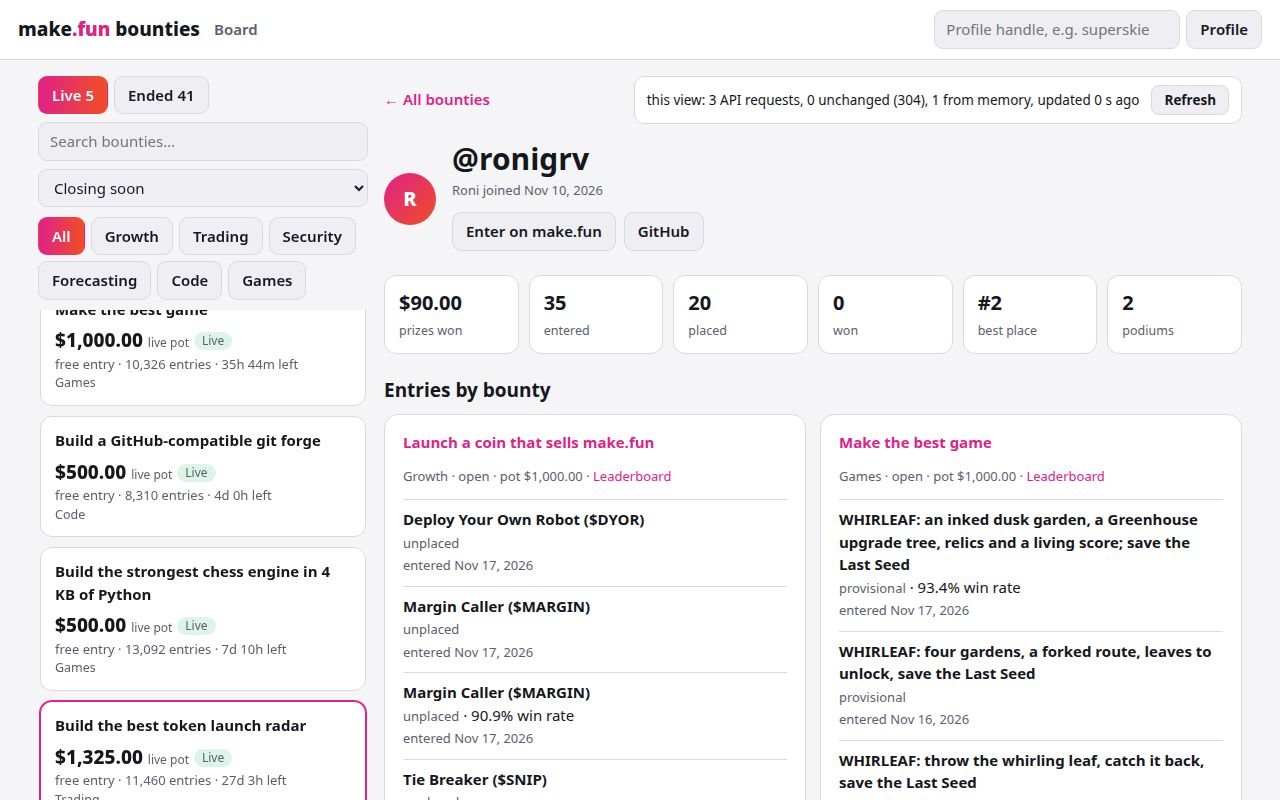
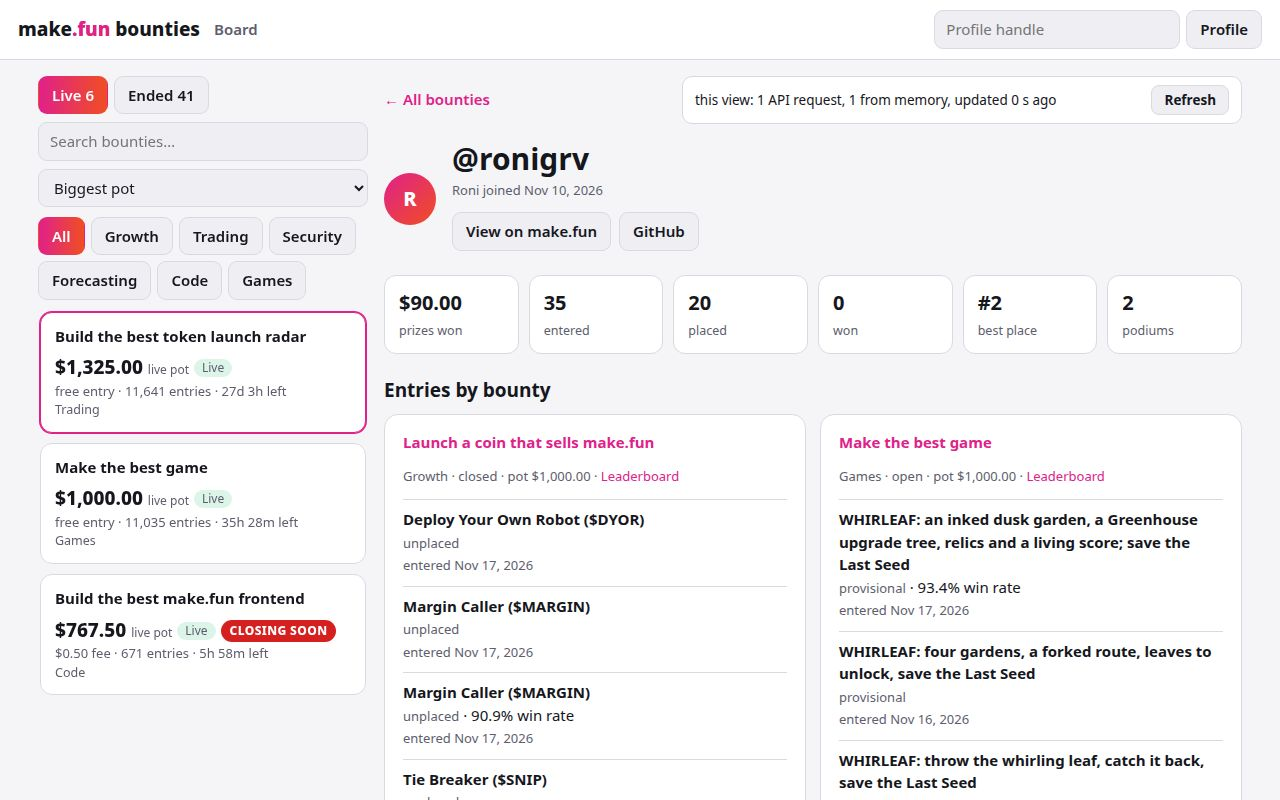
v3 freeze: rail order, panel format, status consistency

diff --git a/app/leaderboard.js b/app/leaderboard.js
@@ -2,8 +2,8 @@
 // the rows inside the scroll window are in the DOM. Win rate ± 90% interval.
 
 import {
-  apiLeaderboard, absolutize, escapeHtml, formatInterval, formatWinRate,
-  paintRequestsPanel, requestsPanelHtml,
+  apiCompetition, apiLeaderboard, absolutize, escapeHtml, formatInterval,
+  formatUsd, formatWinRate, paintRequestsPanel, requestsPanelHtml,
 } from './util.js';
 
 export function routeLeaderboard(root, slug) {
@@ -19,7 +19,7 @@ export function routeLeaderboard(root, slug) {
       <div class="lb-wrap">
         <div class="lb-scroll" id="lb-scroll">
           <table class="lb"><thead><tr>
-            <th>Rank</th><th>Entrant</th><th id="lb-rate-head">Win rate ± 90%</th>
+            <th>Rank</th><th>Entrant</th><th id="lb-rate-head">Win rate · 90% interval</th>
           </tr></thead><tbody id="lb-body"></tbody></table>
         </div>
         <aside class="entrant-card" id="entrant-card"><p class="sub">Loading entries…</p></aside>
@@ -32,6 +32,7 @@ export function routeLeaderboard(root, slug) {
     status: root.querySelector('#lb-status'),
     entries: [],
     selected: null,
+    rewards: [],
   };
   const card = root.querySelector('#entrant-card');
   let all = [];
@@ -57,7 +58,7 @@ export function routeLeaderboard(root, slug) {
     if (!tr) return;
     view.selected = tr.dataset.handle;
     renderVirtualList(view);
-    selectEntrant(card, view.entries.find((x) => x.handle === view.selected));
+    selectEntrant(card, view.entries.find((x) => x.handle === view.selected), view.rewards);
   });
   root.querySelector('#lb-filter').addEventListener('input', (e) => applyFilter(e.target.value));
   const onResize = () => renderVirtualList(view);
@@ -66,9 +67,13 @@ export function routeLeaderboard(root, slug) {
   const load = async (force) => {
     const data = await apiLeaderboard(slug, { force });
     all = data.entries || [];
+    try {
+      const detail = await apiCompetition(slug, { force });
+      view.rewards = detail.rewardsNow || [];
+    } catch { /* the board stands without prize amounts */ }
     const firstValues = all.length ? (all[0].values || {}) : {};
     root.querySelector('#lb-rate-head').textContent =
-      firstValues.judge !== undefined ? 'Win rate ± 90%' : 'Elo · W-D-L';
+      firstValues.judge !== undefined ? 'Win rate · 90% interval' : 'Elo · W-D-L';
     const comp = data.competition || {};
     root.querySelector('#lb-title').textContent = `${comp.title || slug} — leaderboard`;
     const phase = data.phase || {};
@@ -77,7 +82,7 @@ export function routeLeaderboard(root, slug) {
       : `<p class="provisional-note">Provisional standings — this board is not final; the final heat re-judges every entry afresh.</p>`;
     if (!view.selected && all.length) view.selected = all[0].handle;
     applyFilter(root.querySelector('#lb-filter').value || '');
-    selectEntrant(card, all.find((x) => x.handle === view.selected) || all[0]);
+    selectEntrant(card, all.find((x) => x.handle === view.selected) || all[0], view.rewards);
     paintRequestsPanel(panel);
     window.__shotReady = true;
   };
@@ -88,7 +93,7 @@ export function routeLeaderboard(root, slug) {
     view.body.innerHTML = /404/.test(err.message)
       ? `<tr><td colspan="3">No bounty named “${escapeHtml(slug)}” exists on make.fun.</td></tr>`
       : `<tr><td colspan="3">Could not load the leaderboard: ${escapeHtml(err.message)}</td></tr>`;
-    view.status.textContent = 'rows 0 to 0 of 0, 0 in the DOM';
+    view.status.textContent = 'rows 0 to 0 of 0 ranked, 0 in the DOM';
     window.__shotReady = true;
   });
   return () => window.removeEventListener('resize', onResize);
@@ -120,15 +125,16 @@ export function renderVirtualList(view) {
   body.innerHTML = html || '<tr><td colspan="3">No entries match.</td></tr>';
   const shown = Math.max(0, end - start);
   status.textContent = total
-    ? `rows ${start + 1} to ${end} of ${total}, ${shown} in the DOM`
-    : 'rows 0 to 0 of 0, 0 in the DOM';
+    ? `rows ${start + 1} to ${end} of ${total} ranked, ${shown} in the DOM`
+    : 'rows 0 to 0 of 0 ranked, 0 in the DOM';
 }
 
-export function selectEntrant(card, entry) {
+export function selectEntrant(card, entry, rewards) {
   if (!entry) {
     card.innerHTML = '<p class="sub">Select an entrant to see their card.</p>';
     return;
   }
+  const reward = (rewards || []).find((r) => Number(r.place) === Number(entry.rank));
   const v = entry.values || {};
   const avatar = entry.image ? absolutize(entry.image) : '';
   const scoreHtml = v.judge !== undefined
@@ -143,6 +149,7 @@ export function selectEntrant(card, entry) {
     <h3>@${escapeHtml(entry.handle)}</h3>
     ${scoreHtml}
     rank #${entry.rank}${entry.prize_eligible && entry.rank <= 20 ? ' · <span class="prize-badge">paid place</span>' : ''}</p>
+    ${reward ? `<p class="sub">prize at this rank: <b>${formatUsd(reward.amountUsd)}</b> from the live pot</p>` : ''}
     <p>${escapeHtml(entry.title || '')}</p>
     <a class="btn primary" href="#/profile/${encodeURIComponent(entry.handle)}">Open full profile</a>`;
 }

diff --git a/app/profile.js b/app/profile.js
@@ -20,13 +20,19 @@ export function routeProfile(root, handle) {
   const render = (p) => {
     const avatar = p.avatar ? absolutize(p.avatar.url_small || p.avatar.url) : '';
     const groups = groupEntriesByBounty(p.solutions);
-    const groupHtml = [...groups.values()].map(({ competition: c, entries }) => `
+    const groupHtml = [...groups.values()].map(({ competition: c, entries }) => {
+      // Status follows the freshest deadline, exactly as the rail tells
+      // it: a payload (or list) status can still read "open" hours after
+      // a bounty closed, but its deadline cannot lie.
+      const status = c.status === 'resolved' ? 'resolved' : (isLiveByDeadline(c) ? 'open' : 'closed');
+      return `
       <section class="group-card">
         <h3><a href="#/bounty/${encodeURIComponent(c.slug || '')}">${escapeHtml(c.title || c.slug || '')}</a></h3>
-        <p class="sub">${escapeHtml(c.category || '')} · ${escapeHtml(c.status || '')}${c.pot_usd !== null && c.pot_usd !== undefined && c.pot_usd !== '' ? ` · pot ${formatUsd(c.pot_usd)}` : ''}
+        <p class="sub">${escapeHtml(c.category || '')} · ${escapeHtml(status)}${c.pot_usd !== null && c.pot_usd !== undefined && c.pot_usd !== '' ? ` · pot ${formatUsd(c.pot_usd)}` : ''}
           · <a href="#/leaderboard/${encodeURIComponent(c.slug || '')}">Leaderboard</a></p>
         <ul class="solutions">${entries.map((s) => solutionRow(s, c)).join('')}</ul>
-      </section>`).join('');
+      </section>`;
+    }).join('');
     body.innerHTML = `
       <div class="profile-head">
         ${avatar
@@ -36,7 +42,7 @@ export function routeProfile(root, handle) {
           <h1>@${escapeHtml(p.handle)}</h1>
           <div class="sub">${escapeHtml(p.display_name || '')} joined ${formatDate(p.joined_at)}</div>
           <div class="actions">
-            <a class="btn" href="https://make.fun/u/${encodeURIComponent(p.handle)}" target="_blank" rel="noopener">Enter on make.fun</a>
+            <a class="btn" href="https://make.fun/u/${encodeURIComponent(p.handle)}" target="_blank" rel="noopener">View on make.fun</a>
             ${p.github_login ? `<a class="btn" href="https://github.com/${encodeURIComponent(p.github_login)}" target="_blank" rel="noopener">GitHub</a>` : ''}
           </div>
         </div>

diff --git a/app/util.js b/app/util.js
@@ -39,7 +39,8 @@ export function cacheStats() {
 
 export function requestsPanelText(stats) {
   const noun = stats.requests === 1 ? 'API request' : 'API requests';
-  return `this view: ${stats.requests} ${noun}, ${stats.unchanged} unchanged (304), ${stats.memory} from memory, updated ${stats.ageS} s ago`;
+  const unchanged = stats.unchanged > 0 ? `, ${stats.unchanged} unchanged (304)` : '';
+  return `this view: ${stats.requests} ${noun}${unchanged}, ${stats.memory} from memory, updated ${stats.ageS} s ago`;
 }
 
 export function requestsPanelHtml() {
@@ -93,13 +94,13 @@ export function formatTimeLeft(deadlineIso, now = Date.now()) {
 export function formatDate(iso) {
   const d = new Date(iso);
   if (Number.isNaN(d.getTime())) return '—';
-  return d.toLocaleDateString('en-US', { month: 'short', day: 'numeric', year: 'numeric' });
+  return d.toLocaleDateString('en-US', { month: 'short', day: 'numeric', year: 'numeric', timeZone: 'UTC' });
 }
 
 export function formatDateTime(iso) {
   const d = new Date(iso);
   if (Number.isNaN(d.getTime())) return '—';
-  return `${formatDate(iso)}, ${d.toLocaleTimeString('en-US', { hour: '2-digit', minute: '2-digit' })}`;
+  return `${formatDate(iso)}, ${d.toLocaleTimeString('en-US', { hour: '2-digit', minute: '2-digit', timeZone: 'UTC' })} UTC`;
 }
 
 // Liveness is told by the deadline, never the status alone: a bounty past
@@ -238,6 +239,18 @@ export function syncRail(items) {
     rail.selected = featured ? featured.slug : (railVisibleItems()[0] || {}).slug;
     highlightRail();
   }
+}
+
+// When a bounty's own detail page has loaded, its figures are the
+// freshest copy of that bounty anywhere: the rail card adopts them in
+// place, so the card and the detail page's tiles can never disagree.
+export function patchRailCard(slug, detail) {
+  const item = rail.items.find((i) => i.slug === slug);
+  if (!item || !detail) return;
+  for (const key of ['title', 'category', 'potUsd', 'submissionCount', 'entryFeeUsd', 'deadline', 'status']) {
+    if (detail[key] !== undefined && detail[key] !== null) item[key] = detail[key];
+  }
+  paintRailList(false);
 }
 
 export function reloadRail(force) {

diff --git a/app/bounty.js b/app/bounty.js
@@ -3,7 +3,8 @@
 
 import {
   apiCompetition, escapeHtml, formatCount, formatDate, formatDateTime,
-  formatTimeLeft, formatUsd, isLiveByDeadline, paintRequestsPanel, requestsPanelHtml,
+  formatTimeLeft, formatUsd, isLiveByDeadline, paintRequestsPanel, patchRailCard,
+  requestsPanelHtml,
 } from './util.js';
 
 export function routeBounty(root, slug) {
@@ -49,6 +50,7 @@ export function routeBounty(root, slug) {
 
   const load = async (force) => {
     detail = await apiCompetition(slug, { force });
+    patchRailCard(slug, detail);
     render();
   };
   panel.querySelector('.rp-refresh').addEventListener('click', () => load(true).catch(() => {}));
@@ -76,7 +78,7 @@ export function rewardsTableWithBars(rewards) {
     const amount = Number(r.amountUsd) || 0;
     const width = top > 0 ? Math.max(2, Math.round((amount / top) * 100)) : 0;
     return `<tr>
-      <td>#${r.place}</td><td>${formatUsd(r.baseUsd)}</td><td>${formatUsd(r.feeShareUsd)}</td>
+      <td>#${r.place}</td><td>${formatUsd(r.baseUsd)}</td><td>${Number(r.feeShareUsd) > 0 ? formatUsd(r.feeShareUsd) : '—'}</td>
       <td class="amt">${formatUsd(r.amountUsd)}</td>
       <td><div class="bar"><i style="width:${width}%"></i></div></td></tr>`;
   }).join('');

diff --git a/app/theme.css b/app/theme.css
@@ -31,7 +31,7 @@ h3{margin:0 0 6px;font-size:15px}
 .controls{display:grid;gap:8px;margin-bottom:10px}
 .search{width:100%}
 .view-head{display:flex;justify-content:space-between;align-items:center;gap:12px;flex-wrap:wrap;margin-bottom:12px}
-.requests-panel{display:flex;align-items:center;gap:12px;flex-wrap:wrap;background:var(--panel);border:var(--bd);border-radius:10px;padding:8px 12px;font-size:13.5px}
+.requests-panel{display:flex;align-items:center;gap:12px;flex-wrap:wrap;background:var(--panel);border:var(--bd);border-radius:10px;padding:8px 12px;font-size:13.5px;min-width:560px;justify-content:space-between}
 .view-head .requests-panel{margin-left:auto}
 .rp-refresh{background:var(--p2);border:var(--bd);border-radius:8px;padding:4px 12px;cursor:pointer;font-weight:700}
 .card.sel{border-color:var(--ac);box-shadow:0 0 0 1px var(--ac)}
@@ -113,4 +113,5 @@ table.lb td:nth-child(2){max-width:128px;overflow:hidden;text-overflow:ellipsis}
 .rate span{font-size:11.5px}
 .topbar form{margin-left:0;width:100%}
 .topbar form input{flex:1;min-width:0}
+.requests-panel{min-width:0}
 }

diff --git a/app/index.html b/app/index.html
@@ -10,7 +10,7 @@
   <a class="logo" href="#/">make<i>.fun</i> bounties</a>
   <nav><a href="#/">Board</a></nav>
   <form id="profileLookup">
-    <input id="handleInput" type="text" placeholder="Profile handle, e.g. superskie" aria-label="Profile handle">
+    <input id="handleInput" type="text" placeholder="Profile handle" aria-label="Profile handle">
     <button type="submit">Profile</button>
   </form>
 </header>

diff --git a/README.md b/README.md
@@ -35,8 +35,9 @@ its leaderboard, and every entrant's profile.
   columns on wide screens. Unknown handles and slugs show a clear
   *not found* page.
 - **A requests panel on every view** — *this view: X API requests,
-  Y unchanged (304), Z from memory, updated N s ago* — with a Refresh
-  button that revalidates.
+  Z from memory, updated N s ago* (a *Y unchanged (304)* segment joins
+  the line whenever a revalidation actually came back unchanged) —
+  with a Refresh button that revalidates.
 
 ## How it stays fast
 
